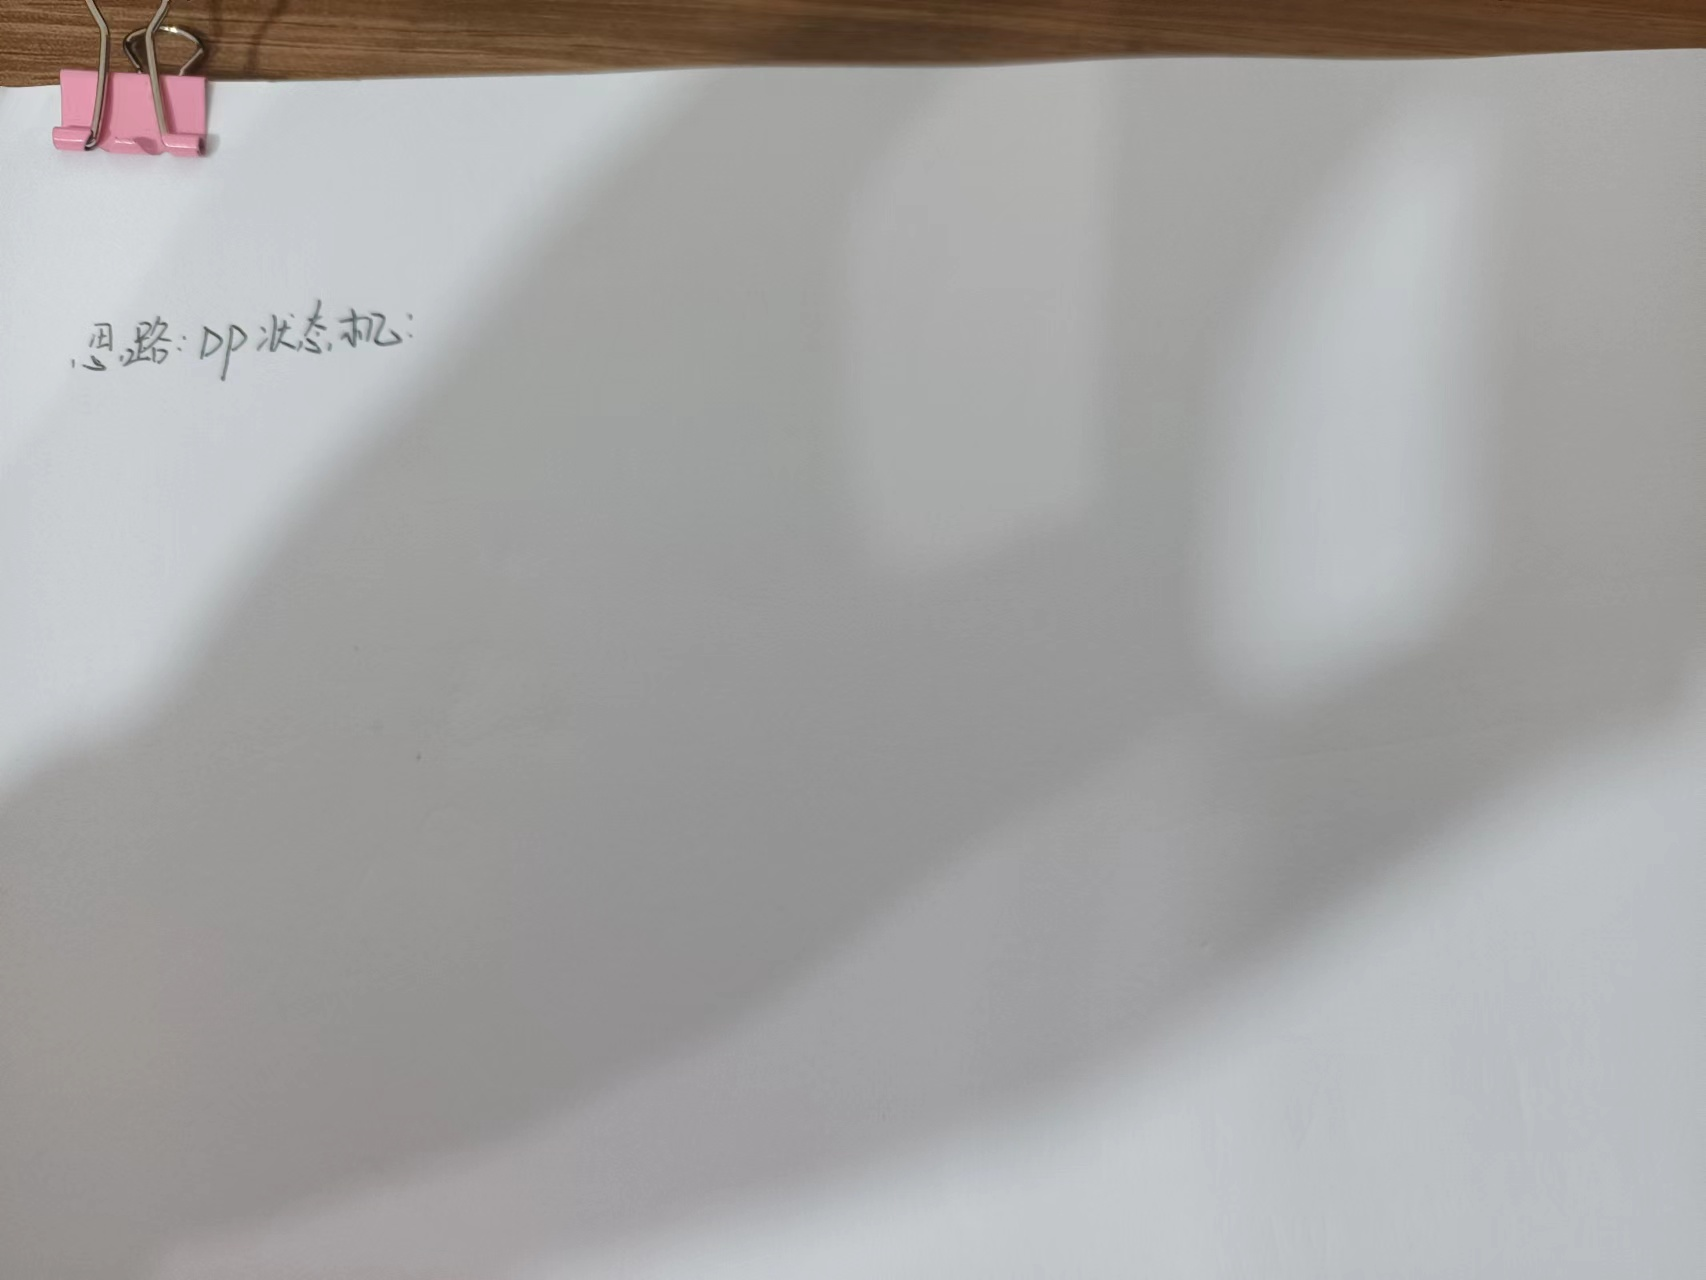
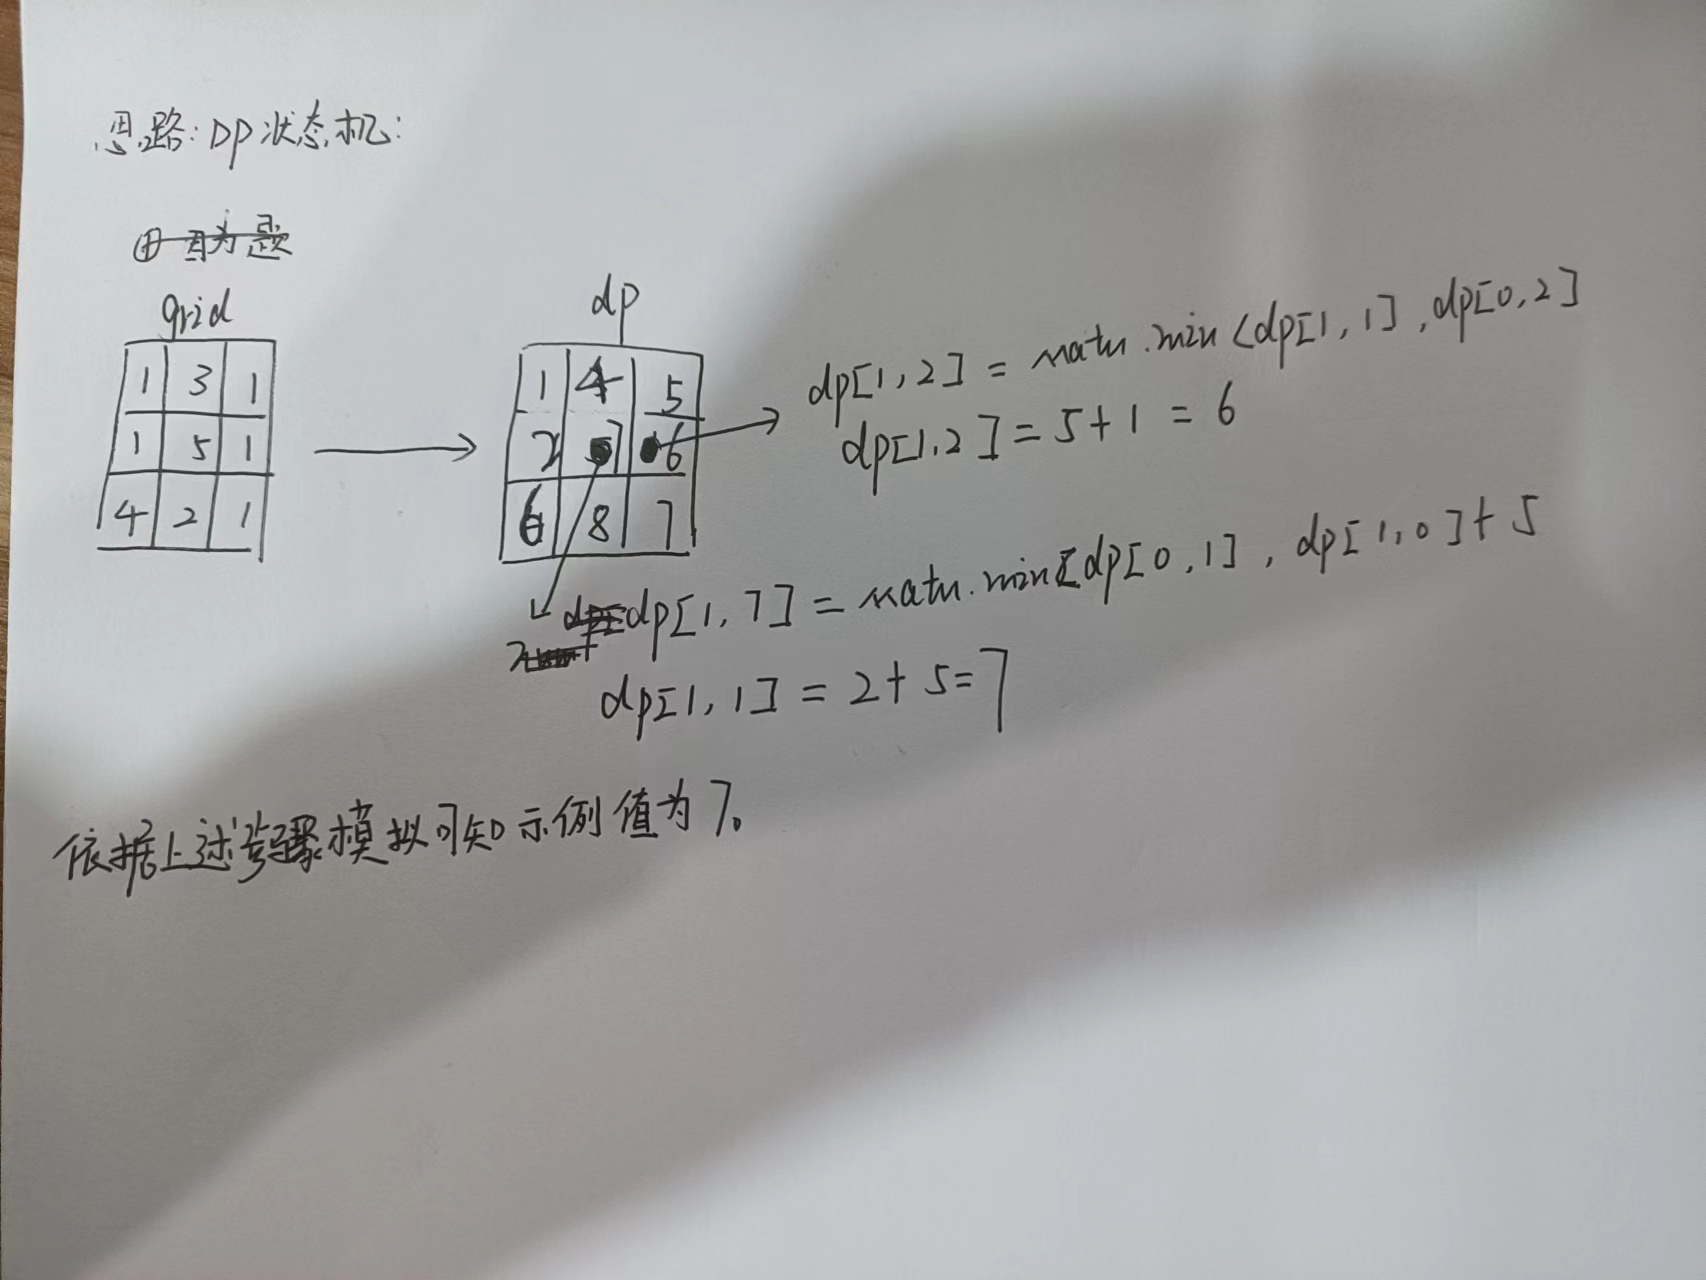
Site updated: 2022-10-12 22:11:53

diff --git a/2022/10/12/leetcode-64-最小路径和/index.html b/2022/10/12/leetcode-64-最小路径和/index.html
@@ -16,17 +16,18 @@
   <meta name="author" content="lvapi">
   <meta name="keywords" content="">
   
-    <meta name="description" content="#图片">
+    <meta name="description" content="题目：给定一个包含非负整数的 m x n 网格 grid ，请找出一条从左上角到右下角的路径，使得路径上的数字总和为最小。 步骤模拟：假设当前的坐标点为第一行那么[0, j] 点的值 sum &#x3D; grid[0][j-1] + grid[0][j], 如果为第一列[0, i] sum &#x3D; grid[j][0] + grid[j - 1][0], [0,0]点为起始点 sum &amp;#">
 <meta property="og:type" content="article">
 <meta property="og:title" content="leetcode-64 最小路径和">
 <meta property="og:url" content="https://lvapi.github.io/2022/10/12/leetcode-64-%E6%9C%80%E5%B0%8F%E8%B7%AF%E5%BE%84%E5%92%8C/index.html">
 <meta property="og:site_name" content="Hexo">
-<meta property="og:description" content="#图片">
+<meta property="og:description" content="题目：给定一个包含非负整数的 m x n 网格 grid ，请找出一条从左上角到右下角的路径，使得路径上的数字总和为最小。 步骤模拟：假设当前的坐标点为第一行那么[0, j] 点的值 sum &#x3D; grid[0][j-1] + grid[0][j], 如果为第一列[0, i] sum &#x3D; grid[j][0] + grid[j - 1][0], [0,0]点为起始点 sum &amp;#">
 <meta property="og:locale" content="zh_CN">
 <meta property="og:image" content="https://lvapi.github.io/2022/10/12/leetcode-64-%E6%9C%80%E5%B0%8F%E8%B7%AF%E5%BE%84%E5%92%8C/image.jpg">
 <meta property="article:published_time" content="2022-10-12T13:33:58.000Z">
-<meta property="article:modified_time" content="2022-10-12T13:52:49.580Z">
+<meta property="article:modified_time" content="2022-10-12T14:11:34.225Z">
 <meta property="article:author" content="lvapi">
+<meta property="article:tag" content="动态规划">
 <meta name="twitter:card" content="summary_large_image">
 <meta name="twitter:image" content="https://lvapi.github.io/2022/10/12/leetcode-64-%E6%9C%80%E5%B0%8F%E8%B7%AF%E5%BE%84%E5%92%8C/image.jpg">
   
@@ -220,7 +221,7 @@
       <span class="post-meta mr-2">
         <i class="iconfont icon-chart"></i>
         
-          3 字
+          300 字
         
       </span>
     
@@ -231,7 +232,7 @@
         
         
         
-          1 分钟
+          3 分钟
         
       </span>
     
@@ -274,9 +275,8 @@
             
               <div class="markdown-body">
                 
-                <p>#图片</p>
-<img class=".jpg">
-<p><img src="/2022/10/12/leetcode-64-%E6%9C%80%E5%B0%8F%E8%B7%AF%E5%BE%84%E5%92%8C/image.jpg" srcset="/img/loading.gif" lazyload alt="图片"></p>
+                <h1 id="题目："><a href="#题目：" class="headerlink" title="题目："></a>题目：</h1><p>给定一个包含非负整数的 m x n 网格 grid ，请找出一条从左上角到右下角的路径，使得路径上的数字总和为最小。</p>
+<h1 id="步骤模拟："><a href="#步骤模拟：" class="headerlink" title="步骤模拟："></a>步骤模拟：</h1><p>假设当前的坐标点为第一行那么[0, j] 点的值 sum &#x3D; grid[0][j-1] + grid[0][j], 如果为第一列[0, i] sum &#x3D; grid[j][0] + grid[j - 1][0], [0,0]点为起始点 sum &#x3D; grid[0][0]。假设当前点为[i,j], 那么走到[i,j]点只有两种可能[i-1, j]或[i, j-1] 此时可推得转移公式 sum &#x3D; grid[i][j] + Math.max(grid[i - 1][j], grid[i][j-1])。<br>#图片<br><img src="/2022/10/12/leetcode-64-%E6%9C%80%E5%B0%8F%E8%B7%AF%E5%BE%84%E5%92%8C/image.jpg" srcset="/img/loading.gif" lazyload alt="图片"></p>
 
                 
               </div>
@@ -285,6 +285,13 @@
             <div>
               <div class="post-metas my-3">
   
+  
+    <div class="post-meta">
+      <i class="iconfont icon-tags"></i>
+      
+        <a href="/tags/%E5%8A%A8%E6%80%81%E8%A7%84%E5%88%92/">#动态规划</a>
+      
+    </div>
   
 </div>
 

diff --git a/tags/动态规划/index.html b/tags/动态规划/index.html
@@ -17,8 +17,8 @@
   <meta name="keywords" content="">
   
     <meta property="og:type" content="website">
-<meta property="og:title" content="标签">
-<meta property="og:url" content="https://lvapi.github.io/tags/index.html">
+<meta property="og:title" content="标签 - 动态规划">
+<meta property="og:url" content="https://lvapi.github.io/tags/%E5%8A%A8%E6%80%81%E8%A7%84%E5%88%92/index.html">
 <meta property="og:site_name" content="Hexo">
 <meta property="og:locale" content="zh_CN">
 <meta property="article:author" content="lvapi">
@@ -26,7 +26,7 @@
   
   
   
-  <title>标签 - Hexo</title>
+  <title>标签 - 动态规划 - Hexo</title>
 
   <link  rel="stylesheet" href="https://lib.baomitu.com/twitter-bootstrap/4.6.1/css/bootstrap.min.css" />
 
@@ -185,7 +185,7 @@
       <div class="banner-text text-center fade-in-up">
         <div class="h2">
           
-            <span id="subtitle" data-typed-text="标签"></span>
+            <span id="subtitle" data-typed-text="标签 - 动态规划"></span>
           
         </div>
 
@@ -216,9 +216,25 @@
               <div class="col-12 col-md-10 m-auto">
                 
 
-<div class="text-center tagcloud">
-  <a href="/tags/leetcode/" style="font-size: 22.5px; color: #779bd3">leetcode</a> <a href="/tags/vue/" style="font-size: 30px; color: #337ab7">vue</a> <a href="/tags/%E5%8A%A8%E6%80%81%E8%A7%84%E5%88%92/" style="font-size: 15px; color: #bbe">动态规划</a>
+<div class="list-group">
+  <p class="h4">共计 1 篇文章</p>
+  <hr>
+  
+  
+    
+      
+      <p class="h5">2022</p>
+    
+    <a href="/2022/10/12/leetcode-64-%E6%9C%80%E5%B0%8F%E8%B7%AF%E5%BE%84%E5%92%8C/" class="list-group-item list-group-item-action">
+      <time>10-12</time>
+      <div class="list-group-item-title">leetcode-64 最小路径和</div>
+    </a>
+  
 </div>
+
+
+
+
 
               </div>
             </div>

diff --git a/index.html b/index.html
@@ -231,7 +231,7 @@
       
       <a class="index-excerpt index-excerpt__noimg" href="/2022/10/12/leetcode-64-%E6%9C%80%E5%B0%8F%E8%B7%AF%E5%BE%84%E5%92%8C/" target="_self">
         <div>
-          #图片
+          题目：给定一个包含非负整数的 m x n 网格 grid ，请找出一条从左上角到右下角的路径，使得路径上的数字总和为最小。 步骤模拟：假设当前的坐标点为第一行那么[0, j] 点的值 sum &#x3D; grid[0][j-1] + grid[0][j], 如果为第一列[0, i] sum &#x3D; grid[j][0] + grid[j - 1][0], [0,0]点为起始点 sum &amp;#
         </div>
       </a>
 
@@ -245,6 +245,13 @@
           </div>
         
         
+        
+          <div class="post-meta">
+            <i class="iconfont icon-tags"></i>
+            
+              <a href="/tags/%E5%8A%A8%E6%80%81%E8%A7%84%E5%88%92/">#动态规划</a>
+            
+          </div>
         
       </div>
     </article>
